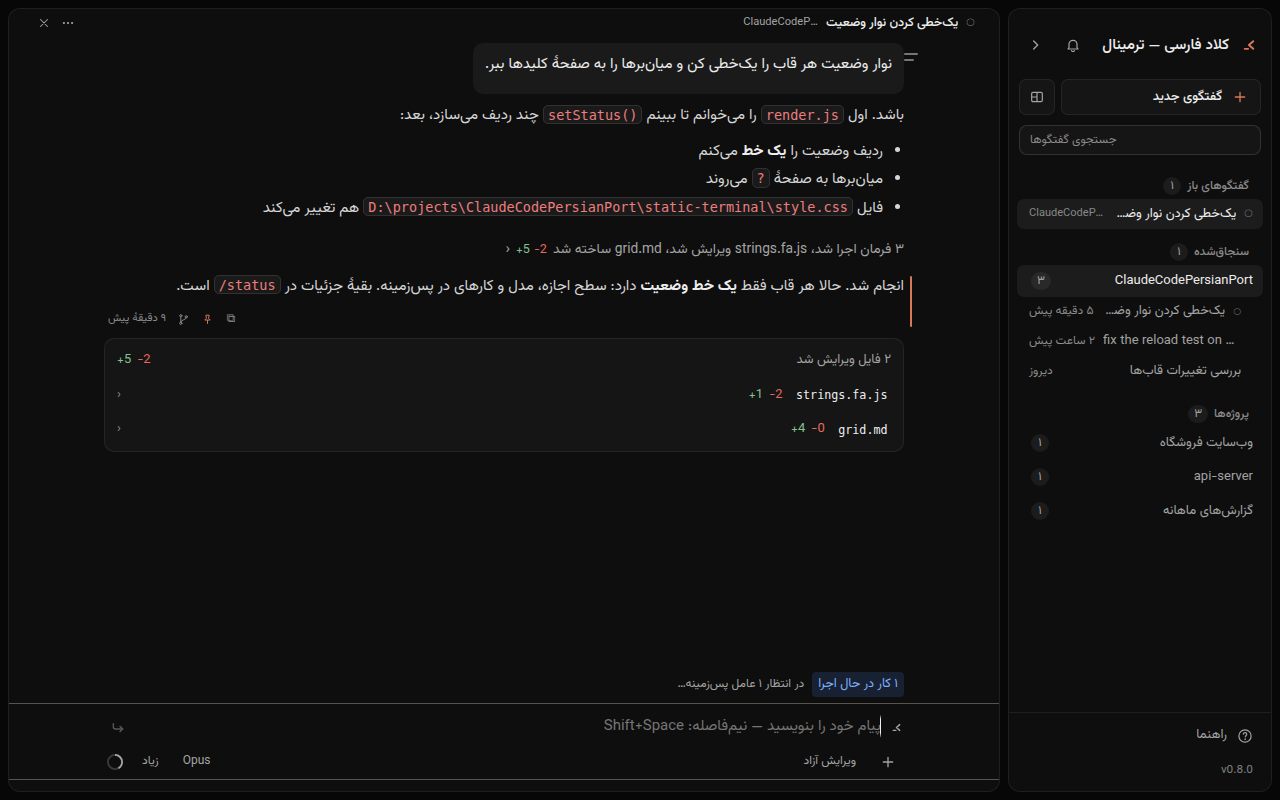
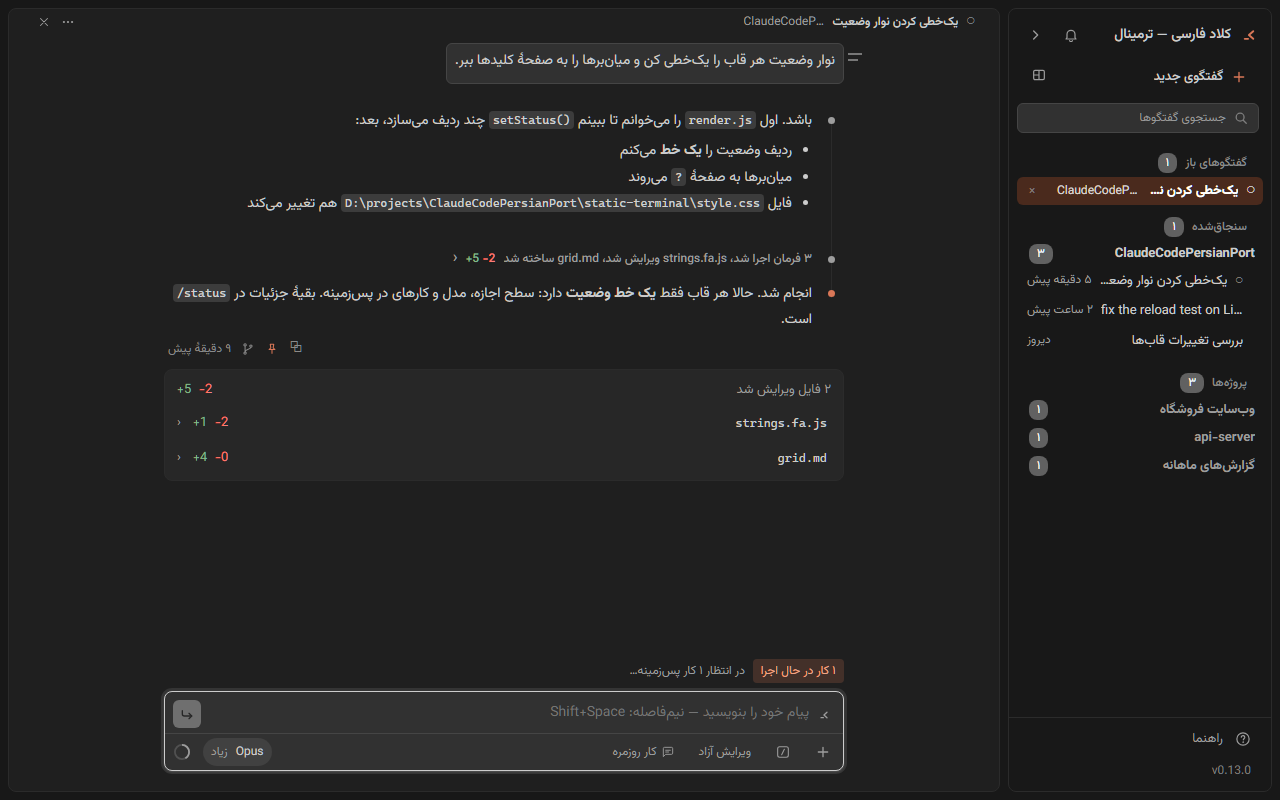
Release web 1.13.0 and terminal 0.13.0: notes, fresh screenshots, cover source
- Version bump; 1.9.x-1.12.x were never public, so the notes for v1.13.0 and
  terminal-v0.13.0 cover everything since 1.8.0, the redesign first.
- README screenshots re-shot from shots.py; the cover is rebuilt from a
  committed source (docs/screenshots/cover-src) so it can be re-rendered.
- README features describe the extension-shaped bar and the usage-limit wait.

diff --git a/docs/screenshots/cover-src/cover.html b/docs/screenshots/cover-src/cover.html
@@ -1,0 +1,80 @@
+<!doctype html>
+<!-- Source of docs/screenshots/cover.png. Re-render after a UI change:
+     1. copy the terminal edition's `shots.py` conversation-1280x800.png over
+        docs/screenshots/terminal-conversation.png;
+     2. python docs/screenshots/cover-src/render.py
+     Fonts are the app's own vendored Vazirmatn, so nothing is fetched. -->
+<html dir="rtl" lang="fa">
+<head>
+<meta charset="utf-8">
+<style>
+  @font-face { font-family: Vazirmatn; font-weight: 400; src: url(../../../persian-claude-gui/static/fonts/Vazirmatn-Regular.woff2); }
+  @font-face { font-family: Vazirmatn; font-weight: 500; src: url(../../../persian-claude-gui/static/fonts/Vazirmatn-Medium.woff2); }
+  @font-face { font-family: Vazirmatn; font-weight: 700; src: url(../../../persian-claude-gui/static/fonts/Vazirmatn-Bold.woff2); }
+  html, body { margin: 0; width: 2400px; height: 1350px; overflow: hidden; }
+  body {
+    font-family: Vazirmatn, sans-serif; color: #f2efe9;
+    background:
+      radial-gradient(1200px 900px at 100% 0%, rgba(217,119,87,.22), transparent 60%),
+      radial-gradient(900px 700px at 0% 100%, rgba(217,119,87,.08), transparent 60%),
+      #121212;
+    position: relative;
+  }
+  .copy { position: absolute; inset-inline-start: 160px; top: 250px; width: 820px; }
+  .mark {
+    width: 96px; height: 96px; border-radius: 22px; display: grid; place-items: center;
+    background: rgba(217,119,87,.14); border: 1px solid rgba(217,119,87,.35); color: #d97757;
+  }
+  h1 { font-size: 168px; font-weight: 700; line-height: 1.1; margin: 48px 0 8px; letter-spacing: -1px; }
+  .sub { font-size: 50px; font-weight: 500; margin: 0 0 72px; color: #e8e4dc; }
+  .sub bdi { direction: ltr; unicode-bidi: isolate; }
+  ul { list-style: none; padding: 0; margin: 0; }
+  li { font-size: 36px; margin: 0 0 26px; color: #cfcac1; display: flex; align-items: center; gap: 22px; }
+  li::before { content: ""; width: 12px; height: 12px; border-radius: 50%; background: #d97757; flex: none; }
+  li bdi { direction: ltr; unicode-bidi: isolate; }
+  .tag {
+    display: inline-block; margin-top: 46px; font-size: 26px; color: #d97757;
+    border: 1px solid rgba(217,119,87,.4); border-radius: 999px; padding: 6px 22px;
+  }
+  .stage { position: absolute; left: -60px; top: 230px; perspective: 2400px; }
+  .win {
+    width: 1440px; border-radius: 18px; overflow: hidden; background: #1e1e1e;
+    border: 1px solid #3a3a3a;
+    box-shadow: 0 60px 140px rgba(0,0,0,.7), 0 0 0 1px rgba(255,255,255,.03);
+    transform: rotateY(14deg) rotateX(3deg); transform-origin: left center;
+  }
+  .bar {
+    height: 52px; display: flex; align-items: center; gap: 12px; padding: 0 22px;
+    background: #181818; border-bottom: 1px solid #2c2c2c; font-size: 22px; color: #bdb7ad;
+  }
+  .dot { width: 14px; height: 14px; border-radius: 50%; background: #3c3c3c; }
+  .bar span { margin-inline-end: 12px; }
+  .win img { display: block; width: 100%; }
+</style>
+</head>
+<body>
+  <div class="stage">
+    <div class="win">
+      <div class="bar"><span>کلاد فارسی — ترمینال</span><i class="dot"></i><i class="dot"></i><i class="dot"></i></div>
+      <img src="../terminal-conversation.png" alt="">
+    </div>
+  </div>
+  <div class="copy">
+    <div class="mark">
+      <svg viewBox="0 0 24 24" width="54" height="54" fill="none" stroke="currentColor"
+           stroke-width="2.3" stroke-linecap="round" stroke-linejoin="round">
+        <path d="M17.1 7.4L11.9 12l5.2 4.6"/><path d="M6.9 16.6h4"/>
+      </svg>
+    </div>
+    <h1>کلاد فارسی</h1>
+    <p class="sub"><bdi>Claude Code</bdi> به فارسی، روی ویندوز</p>
+    <ul>
+      <li>راستبهچپ، با فارسی و انگلیسی در یک خط</li>
+      <li>نیمفاصله با <bdi>Shift+Space</bdi></li>
+      <li>چند گفتگو کنار هم، در دو نسخهٔ پنجرهای و ترمینالی</li>
+      <li>رایگان و متنباز</li>
+    </ul>
+    <span class="tag">طراحی تازه · نسخهٔ ۱.۱۳</span>
+  </div>
+</body>
+</html>

diff --git a/docs/screenshots/cover-src/render.py b/docs/screenshots/cover-src/render.py
@@ -1,0 +1,19 @@
+"""Render cover.html to docs/screenshots/cover.png (2400x1350) with headless Edge."""
+
+import subprocess
+import sys
+from pathlib import Path
+
+HERE = Path(__file__).resolve().parent
+sys.path.insert(0, str(HERE.parents[2] / "persian-claude-gui"))
+
+from test_layout import find_edge  # noqa: E402
+
+out = HERE.parent / "cover.png"
+subprocess.run([
+    find_edge(), "--headless=new", "--disable-gpu", "--hide-scrollbars",
+    "--allow-file-access-from-files", "--force-device-scale-factor=1",
+    "--window-size=2400,1350", "--virtual-time-budget=3000",
+    f"--screenshot={out}", (HERE / "cover.html").as_uri(),
+], check=True, timeout=60)
+print(out)

diff --git a/persian-claude-gui/server.py b/persian-claude-gui/server.py
@@ -58,8 +58,8 @@ COOKIE_NAME = "pcg_token"
 # version number are per-edition; everything below this line is not. PCG_UI
 # exists so a test that boots the server can pick an edition without a flag.
 EDITIONS = {
-    "web":      ("static",          "کلاد فارسی",            "1.12.1"),
-    "terminal": ("static-terminal", "کلاد فارسی — ترمینال",  "0.12.1"),
+    "web":      ("static",          "کلاد فارسی",            "1.13.0"),
+    "terminal": ("static-terminal", "کلاد فارسی — ترمینال",  "0.13.0"),
 }
 
 HERE = Path(__file__).resolve().parent

diff --git a/docs/releases/v1.13.0.md b/docs/releases/v1.13.0.md
@@ -1,0 +1,50 @@
+## کلاد فارسی ۱.۱۳.۰: طراحی تازه
+
+این نسخه هر دو میانبر را نصب میکند: **کلاد فارسی ۱.۱۳.۰** و **کلاد فارسی — ترمینال ۰.۱۳.۰**. همهٔ تغییرهای بعد از ۱.۸.۰ در همین نسخه آمده است.
+
+### طراحی تازه
+- هر دو نسخه را از روی **افزونهٔ Claude Code برای VS Code** از نو طراحی کردیم: همان اندازهٔ حروف، همان فاصلهها و همان خط زمانی کنار پاسخها، با رنگ نارنجی کلاد. همهٔ اندازهها حالا از یک جدول میآیند و یک آزمون خودکار هر عدد بیرون از جدول را میگیرد.
+- **نوار زیر کادر پیام:**
+  - «+» فایل پیوست میکند، پروندهای را با `@` نام میبرد، و سرورهای MCP را روشن و خاموش میکند.
+  - «/» فهرست فرمانها را گروهبندیشده باز میکند. جستجویش فارسی و انگلیسی را با هم میفهمد و «ي/ی» برایش فرقی ندارد.
+  - منوی حالت سطح اجازه را با آیکن نشان میدهد. منوی مدل همهٔ مدلها را در یک فهرست میآورد و زیر نام هر کدام توضیحش را مینویسد. سطح تلاش در پایین هر دو منو تنظیم میشود و کنار نام مدل دیده میشود.
+  - حلقهٔ ◔ میگوید چقدر از حافظهٔ گفتگو پر شده و چقدر از سقف مصرف مانده است. ساعت کش هم نشان میدهد کش پیامها کی سرد میشود.
+- **نسخهٔ پنجرهای خلوتتر شد:** نوار وضعیت، سطر راهنما و دکمههای اضافهٔ پایین صفحه رفتند و نوارش همان نوار نسخهٔ ترمینالی است.
+- هشدار پر شدن حافظهٔ گفتگو حالا کارتی آرام بالای کادر پیام است، با دکمهٔ `/compact` کنارش.
+
+### تازهها
+- **لحن پاسخ** را پیش از اولین پیام از منوی حالت انتخاب کنید. بعد از آن ثابت میماند، چون عوض کردنش کل گفتگو را دوباره و بدون کش میخواند. فهرست لحنها فارسی است و توضیح هر لحن کامل نمایش داده میشود.
+- **عوض کردن مدل وسط گفتگو** اول از شما میپرسد و میگوید چقدر از گفتگو دوباره خوانده میشود.
+- **سقف پنجساعتهٔ مصرف:** اگر وسط کار به آن برسید، پنجره بعد از باز شدن سقف خودش کار را ادامه میدهد. با «ادامه نده» یا فرستادن پیام تازه، این انتظار لغو میشود.
+- **فهرست «بدون پرسش انجام شد»** کنار گفتگو باز میشود: هر کاری که کلاد بیاجازه انجام داده، با ابزار، فایل یا دستور و ساعتش.
+- **دستورهای پسزمینه** تا وقتی تمام نشدهاند، در پنل کارها دیده میشوند.
+- **«کپی شناسهٔ گفتگو»** در منوی ⋯ هر گفتگو. با آن همان گفتگو را با `claude --resume` در ترمینال ادامه میدهید.
+- **درخواست اجازه منتظر شما میماند** و دیگر بعد از دو دقیقه خودبهخود رد نمیشود.
+- سطر «در حال کار» نام ابزاری را که اجرا میشود و فایلش را مینویسد.
+- منوی مدل مدلی را نشان میدهد که واقعاً در `settings.json` شما تنظیم شده، نه «Default».
+
+### رفع اشکال
+- گفتگوی قدیمی از آخرین پیامش باز میشود، نه از اولش.
+- «متوقف شد» بعد از بارگذاری دوباره سر جایش میماند.
+- اگر وسط کار پیام بعدی را بفرستید، سطر «در حال کار» و دکمهٔ توقف دیگر ناپدید نمیشوند.
+- عکسهای پیوست وقتی هر دو نسخه با هم باز باشند، درست نمایش داده میشوند.
+- خروجی `/compact` دیگر مثل پیام شما نمایش داده نمیشود.
+- فایلی که نوشتنش را رد کردهاید، در کارت تغییرات نمیآید.
+- فهرست پروژهها روی کامپیوتری با هزاران گفتگو حالا فوری باز میشود (پیشتر ۱.۷ ثانیه).
+- گزینهای که توضیحش انگلیسی است، دیگر جهت ردیف را برعکس نمیکند.
+
+### نصب در سه قدم
+۱. فایل **Source code (zip)** پایین همین صفحه را دانلود کنید و از حالت فشرده خارج کنید.
+۲. روی `persian-claude-gui\setup.bat` دوبار کلیک کنید.
+۳. میانبر «کلاد فارسی» یا «کلاد فارسی — ترمینال» را از دسکتاپ باز کنید.
+
+اگر نسخهٔ قبلی را دارید، همین سه قدم کافی است. نصبکننده نسخهٔ قبلی را بهروز میکند و گفتگوها و تنظیمات شما سر جایشان میمانند.
+
+پیشنیاز: ویندوز ۱۰ یا ۱۱ و یک حساب Claude که Claude Code با آن کار کند. اگر پایتون و Claude Code نصب نباشند، نصبکننده خودش نصبشان میکند.
+
+**مشکلی دیدید یا پیشنهادی دارید؟** [اینجا بنویسید](https://github.com/229amini/ClaudeCodePersianPort/issues/new/choose). فرمها فارسیاند. اگر برنامه به کارتان آمد، یک ⭐ بدهید و آن را برای دوستانتان بفرستید.
+
+> این پروژه مستقل است و به Anthropic وابسته نیست.
+
+---
+**English:** Web edition 1.13.0; the download also installs the terminal edition 0.13.0. Everything since 1.8.0. **Redesign:** both editions rebuilt after the Claude Code VS Code extension (its sizes, spacing and answer timeline, in Claude orange, on one checked design scale); a composer bar with attach / `@` / MCP behind «+», a grouped command palette behind «/», mode and model menus with the effort level at their foot, a context and usage ring and a prompt-cache clock; a quieter web edition bar; a calm context-full card with `/compact`. **New:** the response style, picked before the first message; a confirm before a mid-conversation model switch; work continues by itself after the five-hour usage limit resets; a read-only list of what ran without asking; background commands in the tasks panel; copy a conversation's id for `claude --resume`; permission requests wait for you instead of timing out after two minutes; the working line names the running tool; the model menu shows the model `settings.json` actually sets. **Fixed:** old conversations open at their newest message, «Stopped» survives a reload, the working line no longer drops under a running turn, image thumbnails with both editions open, `/compact` output no longer drawn as your message, denied writes left out of the change card, the project list fast on machines with thousands of transcripts, an English option description no longer flips its row.

diff --git a/docs/releases/terminal-v0.13.0.md b/docs/releases/terminal-v0.13.0.md
@@ -1,0 +1,37 @@
+## کلاد فارسی، نسخهٔ ترمینالی ۰.۱۳.۰: طراحی تازه
+
+دانلودش همان [کلاد فارسی ۱.۱۳.۰](https://github.com/229amini/ClaudeCodePersianPort/releases/tag/v1.13.0) است و نصب، هر دو میانبر را میسازد. این صفحه شمارهٔ نسخهٔ ترمینالی را ثبت میکند. همهٔ تغییرهای بعد از ۰.۸.۰ در همین نسخه آمده است.
+
+### طراحی تازه
+- ظاهر از روی **افزونهٔ Claude Code برای VS Code**، با رنگ نارنجی کلاد و یک جدول اندازه برای همهٔ قابها.
+- **نوار زیر کادر پیام** مثل نسخهٔ پنجرهای: «+» برای پیوست و `@` و سرورهای MCP، «/» برای فهرست فرمانها، منوی حالت و منوی مدل با سطح تلاش در پایینشان، حلقهٔ مصرف و ساعت کش. دکمهٔ ارسال در حین کار به دکمهٔ توقف تبدیل میشود.
+- برچسبهای اسکریپت `statusLine` شما (مثل `[BADGES]`) به شکل نشان در سطر وضعیت قاب دیده میشوند.
+- صفحهٔ «گفتگوی جدید» یک جدول مرتب است و قاب خالی با خطچین مشخص میشود.
+
+### تازهها
+- **لحن پاسخ** پیش از اولین پیام انتخاب میشود. **عوض کردن مدل وسط گفتگو** اول از شما میپرسد.
+- **دکمهٔ ↕** کنار ⤢ قاب را تمامقد میکند و عرضش را نگه میدارد.
+- گفتگویی که از نوار کناری باز میکنید، اگر قاب خالی باشد، در آن باز میشود و جای قاب فعال را نمیگیرد. هر چیدمانی که انتخاب کنید، قابهای تازه را با گفتگوهای باز پر میکند.
+- **سقف پنجساعتهٔ مصرف:** بعد از باز شدن سقف، کار خودش ادامه پیدا میکند.
+- فهرست «بدون پرسش انجام شد» کنار گفتگو، دستورهای پسزمینه در پنل کارها، «کپی شناسهٔ گفتگو» در منوی ⋯ قاب، و درخواست اجازهای که منتظر شما میماند.
+- ✕ قاب گفتگو را میبندد و اگر کلاد مشغول کار باشد، اول میپرسد «مطمئنید؟».
+
+### رفع اشکال
+- پنل کارها در همان قابی باز میشود که آن را خواسته، نه روی قاب کناری.
+- عوض کردن چیدمان وسط کار، سطر «در حال کار» را از کار نمیاندازد.
+- ✕ گفتگوی باز در نوار کناری دوباره دیده میشود.
+- «متوقف شد» بعد از بارگذاری دوباره سر جایش میماند و گفتگوی قدیمی از آخرین پیامش باز میشود.
+
+### نصب در سه قدم
+۱. فایل **Source code (zip)** پایین همین صفحه را دانلود کنید و از حالت فشرده خارج کنید.
+۲. روی `persian-claude-gui\setup.bat` دوبار کلیک کنید.
+۳. میانبر «کلاد فارسی» یا «کلاد فارسی — ترمینال» را از دسکتاپ باز کنید.
+
+پیشنیاز: ویندوز ۱۰ یا ۱۱ و یک حساب Claude که Claude Code با آن کار کند. اگر پایتون و Claude Code نصب نباشند، نصبکننده خودش نصبشان میکند.
+
+**مشکلی دیدید یا پیشنهادی دارید؟** [اینجا بنویسید](https://github.com/229amini/ClaudeCodePersianPort/issues/new/choose). فرمها فارسیاند. اگر برنامه به کارتان آمد، یک ⭐ بدهید و آن را برای دوستانتان بفرستید.
+
+> این پروژه مستقل است و به Anthropic وابسته نیست.
+
+---
+**English:** Terminal edition 0.13.0, from the same download as web 1.13.0. Everything since 0.8.0. **Redesign:** after the Claude Code VS Code extension, in Claude orange, on one design scale; the composer bar (attach / `@` / MCP, command palette, mode and model menus with effort, usage ring, cache clock, send/stop); your `statusLine` script's `[BADGES]` as chips in the pane's state line; a tidier new-session page. **New:** the response style picked before the first message, a confirm before a mid-conversation model switch, the ↕ full-height pane toggle, a sidebar open fills an empty pane first and every layout pick fills new panes, work continuing after the five-hour limit resets, the list of what ran without asking, background commands in the tasks panel, copy a conversation's id, permission requests that wait for you, and the pane ✕ closes the conversation (asking first while it works). **Fixed:** the tasks panel opens in its own pane, a layout change mid-turn no longer breaks the working line, the sidebar ✕ is visible again, «Stopped» survives a reload, old conversations open at their newest message.

diff --git a/README.md b/README.md
@@ -54,7 +54,11 @@
   گفتگوی اصلی دست نمیخورد.
 - **نمای متمرکز** (<kbd>Ctrl</kbd>+<kbd>Alt</kbd>+<kbd>F</kbd>): پرسشها و پاسخها
   میمانند و مراحل هر کار پشت یک سطر جمع میشوند.
-- **مدل، میزان تفکر و مصرف** در نوار زیر جای نوشتن پیام، مثل claude.ai/code.
+- **ظاهری از روی افزونهٔ Claude Code برای VS Code:** همان اندازهها و فاصلهها، با رنگ
+  نارنجی کلاد. زیر کادر پیام، «+» فایل پیوست میکند، «/» فهرست فرمانها را باز میکند، و
+  منوی مدل و منوی حالت سطح تلاش و لحن پاسخ را هم دارند.
+- **سقف پنجساعتهٔ مصرف:** اگر وسط کار به سقف برسید، پنجره بعد از باز شدنش کار را خودش
+  ادامه میدهد.
 - **نصب با دوبار کلیک.** اگر پایتون یا Claude Code نصب نباشد، نصبکننده نصبشان میکند و هر
   جا کاری از شما لازم باشد، به فارسی میگوید.
 - **روی کامپیوتر خودتان.** برنامه فقط به `127.0.0.1` گوش میدهد و چیزی به جایی نمیفرستد.
@@ -164,9 +168,12 @@ project keeps the CLI and replaces only the screen.
   (the source conversation is left as it was).
 - **Focus view** (<kbd>Ctrl</kbd>+<kbd>Alt</kbd>+<kbd>F</kbd> or `/focus`): each turn's tool
   steps collapse behind one row, so only questions and answers stay open.
-- **Composer bar modelled on claude.ai/code**: model picker, effort slider, output style,
-  a context and plan-usage panel, MCP server toggles, file attachments and slash-command
-  completion.
+- **Look and composer bar after the Claude Code VS Code extension** (1.13 / 0.13): its sizes
+  and spacing in Claude orange; attach, `@` mentions and MCP toggles behind «+», a command
+  palette behind «/», model and mode menus carrying the effort level and the response style,
+  a context and plan-usage ring, and a prompt-cache clock.
+- **The five-hour usage limit**: a turn cut off by it continues by itself once the limit
+  resets, the way the TUI does.
 - **CLI features beyond chat**: `AskUserQuestion` as a real form, plan mode with the plan
   rendered as markdown, a message queue you can cancel from or send now, `!` shell mode, `@`
   file mentions, input history with ↑ and <kbd>Ctrl</kbd>+<kbd>R</kbd>, `/export` and
